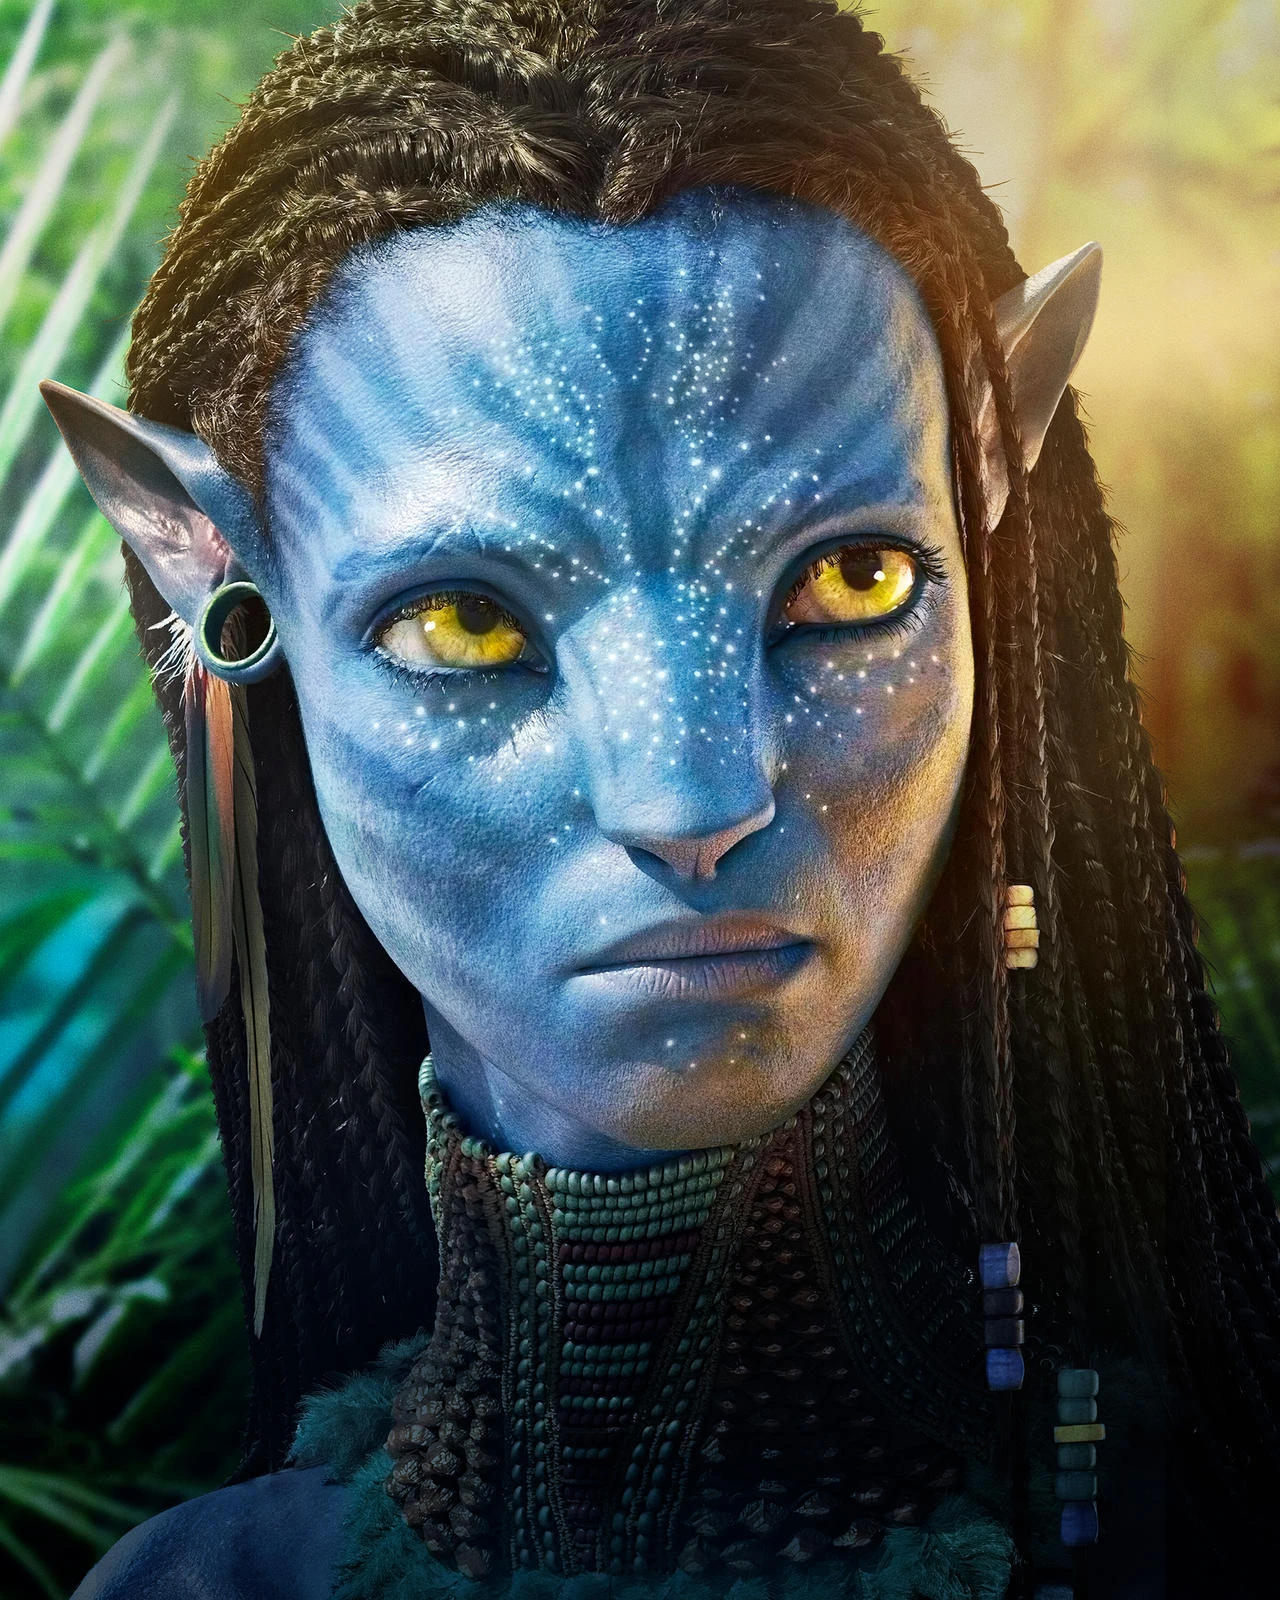
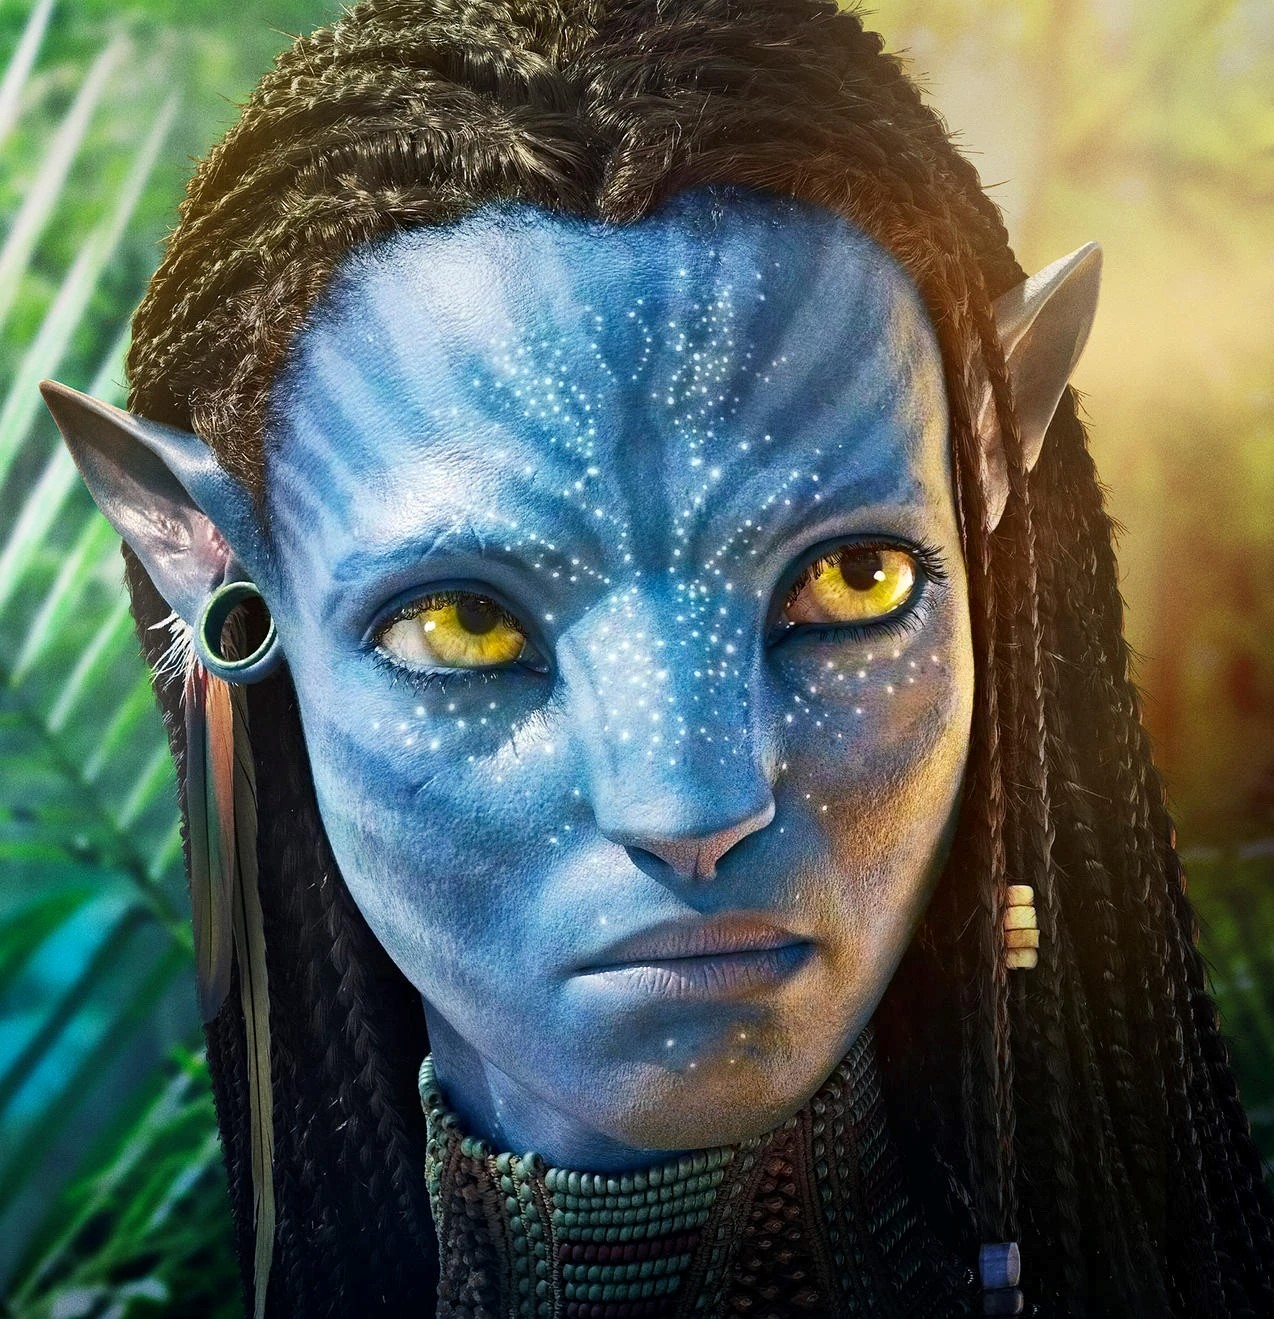
modifinied index.css

diff --git a/index.html b/index.html
@@ -9,7 +9,7 @@
 </head>
 <body>
 <header>
-    <img src="./image/Avatar!.jpg" alt="My avatar" />
+    <img src="./image/Avatar.jpg" alt="My avatar" />
     <h2>Alex</h2>
     <a href="./pages/ua.html">UA</a>
 </header>
@@ -21,10 +21,8 @@
         <li><a href="https://web.telegram.org/z/" target="_blank">My Telegram</a></li>
 
     </ul>
-    <div>
-        iehorov@gmail.com
-    </div>
+    <a>iehorov1995@gmail.com</a>
 </main>
-<p>Made by Nikname Alex</p>
+<footer>Made by Nikname Alex</footer>
 </body>
 </html>

diff --git a/pages/ua.html b/pages/ua.html
@@ -9,7 +9,7 @@
 </head>
 <body>
     <header>
-        <img src="./../image/Avatar!.jpg" alt="Мій аватар" />
+        <img src="./../image/Avatar.jpg" alt="Мій аватар" />
         <h2>Алекс</h2>
         <a href="./../index.html">EN</a>
     </header>

diff --git a/css/index.css b/css/index.css
@@ -1,3 +1,6 @@
-h1, h2 {
-    color: gray;
+img {
+    width: 200px;
+    height: 200px;
+    object-fit: cover;  /*квадратна картинка*/
+    border-radius: 50%;
 }
